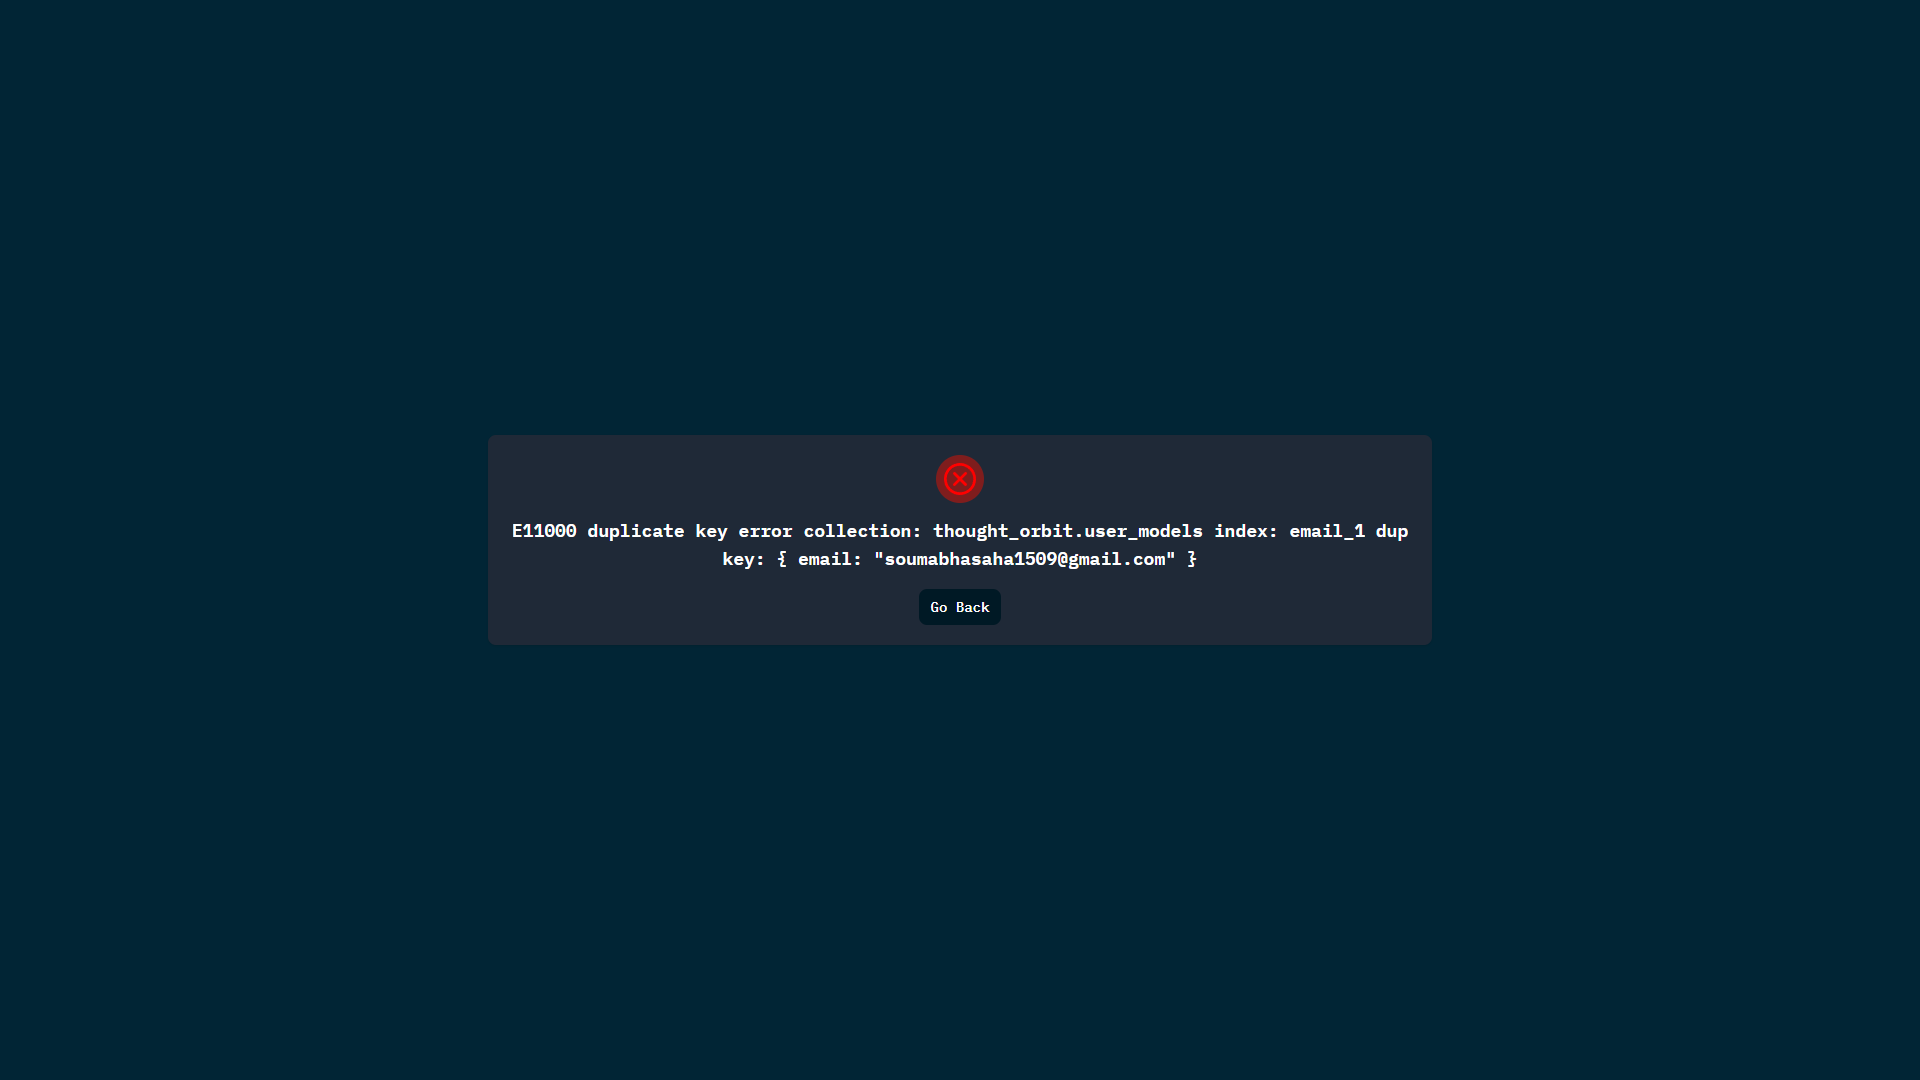
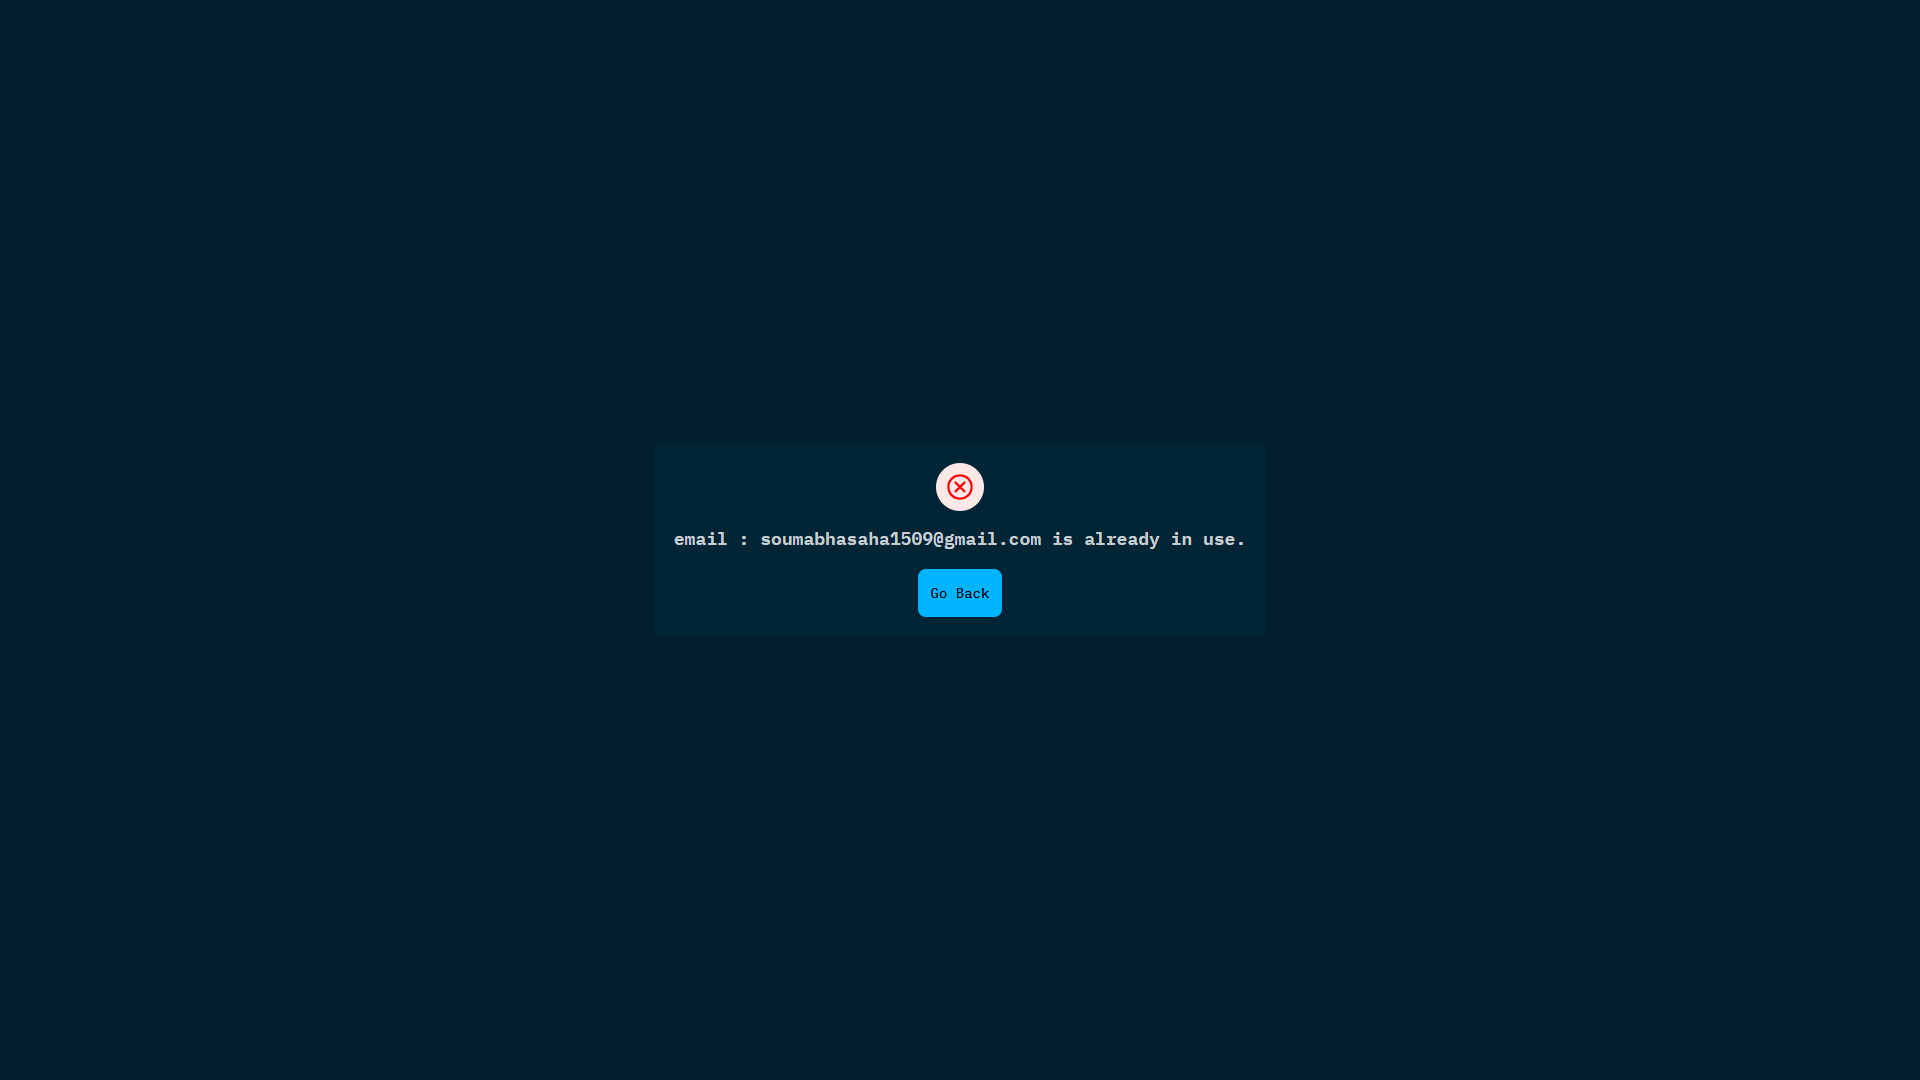
mongo server error formatted

Changed region(s): [[0.25, 0.3972, 0.75, 0.6111]]

diff --git a/src/routes/routes/signup/error.ts b/src/routes/routes/signup/error.ts
@@ -1,10 +1,15 @@
 import express from "express";
 import { ZodError } from "zod";
 import { MongoServerError } from 'mongodb';
-export default (err: Error, req: express.Request, res: express.Response, next: express.NextFunction) => {
+export default (err: Error, _: express.Request, res: express.Response, __: express.NextFunction) => {
   if (err instanceof ZodError) {
-    const message = err.errors.map((issue) => (issue.message)).join(' & ');
-    res.render('signup/error', { "message": message });
-  } else if (err instanceof MongoServerError) res.render('signup/error', { message: 'Email already taken.' });
+    const errorMessage = err.errors.map((issue) => (issue.message)).join(' & ');
+    res.render('signup/error', { message: errorMessage });
+  } else if (err instanceof MongoServerError) {
+    const { keyValue } = err.errorResponse;
+    let errorMessage = '';
+    for (const key in keyValue) errorMessage += `${key} : ${keyValue[key]} is already in use.`;
+    res.render('signup/error', { message: errorMessage });
+  }
   else res.render('signup/error', { message: err.message });
 }
